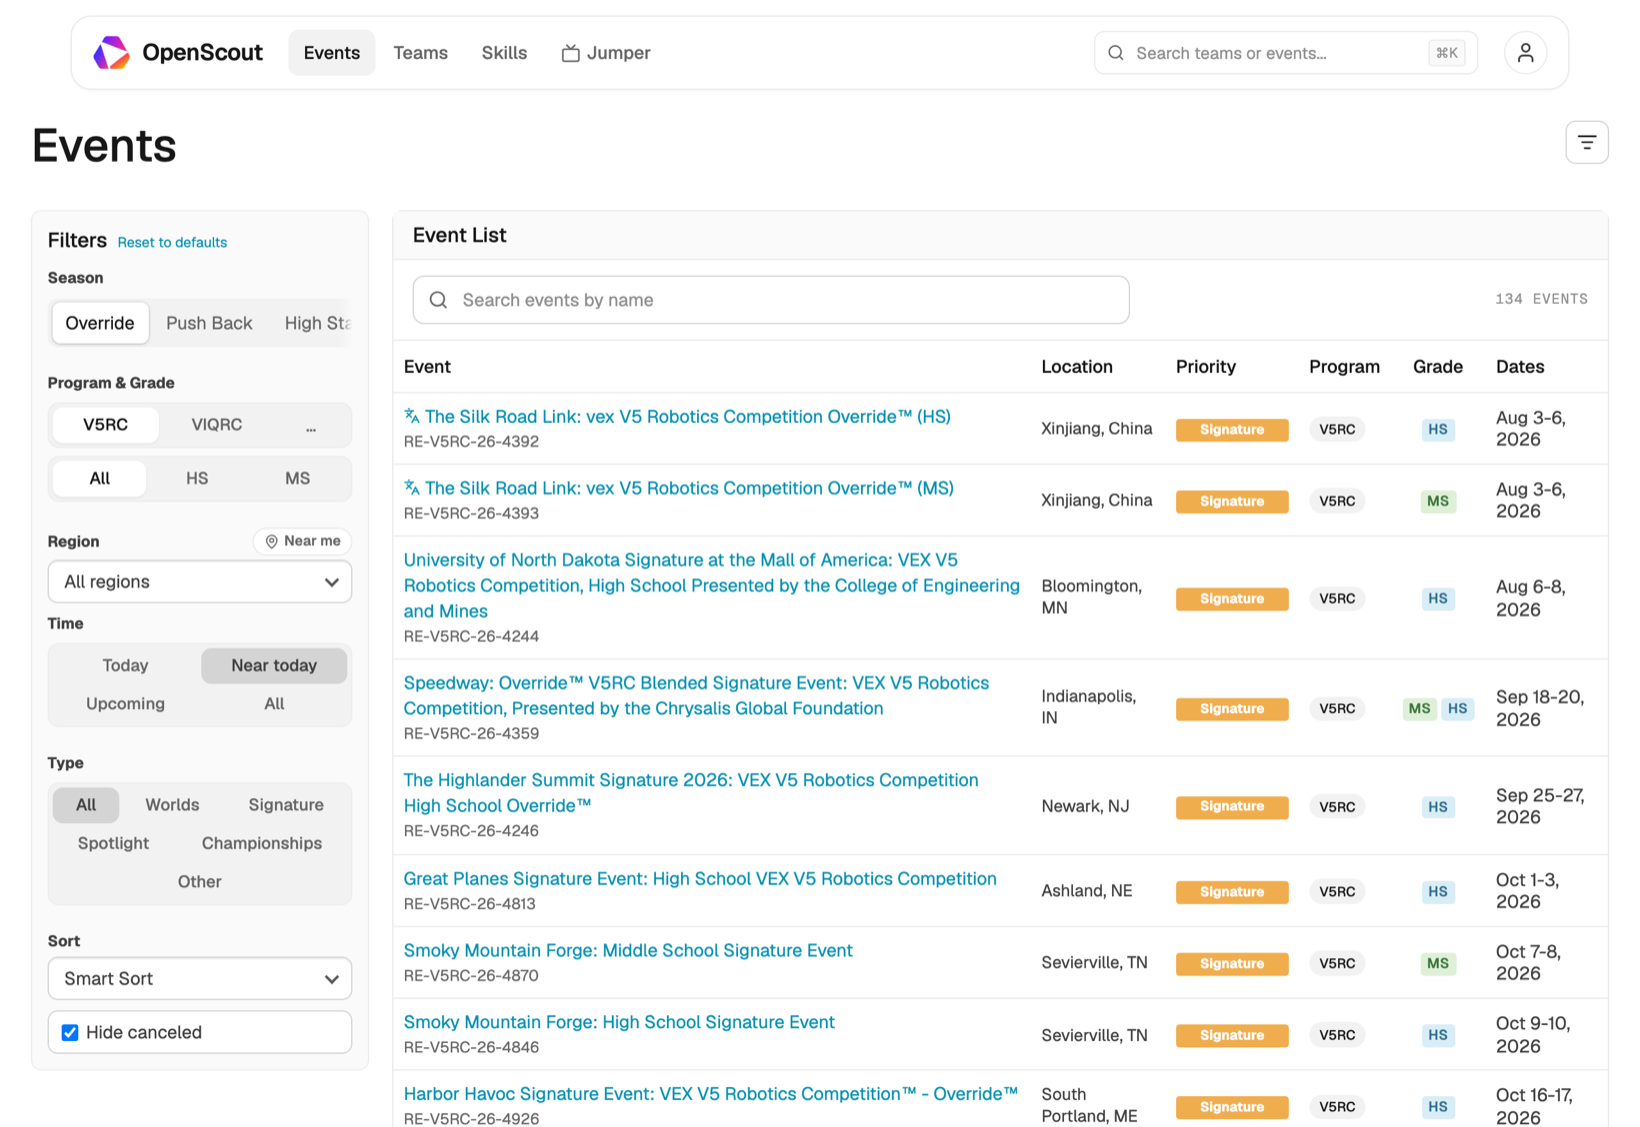
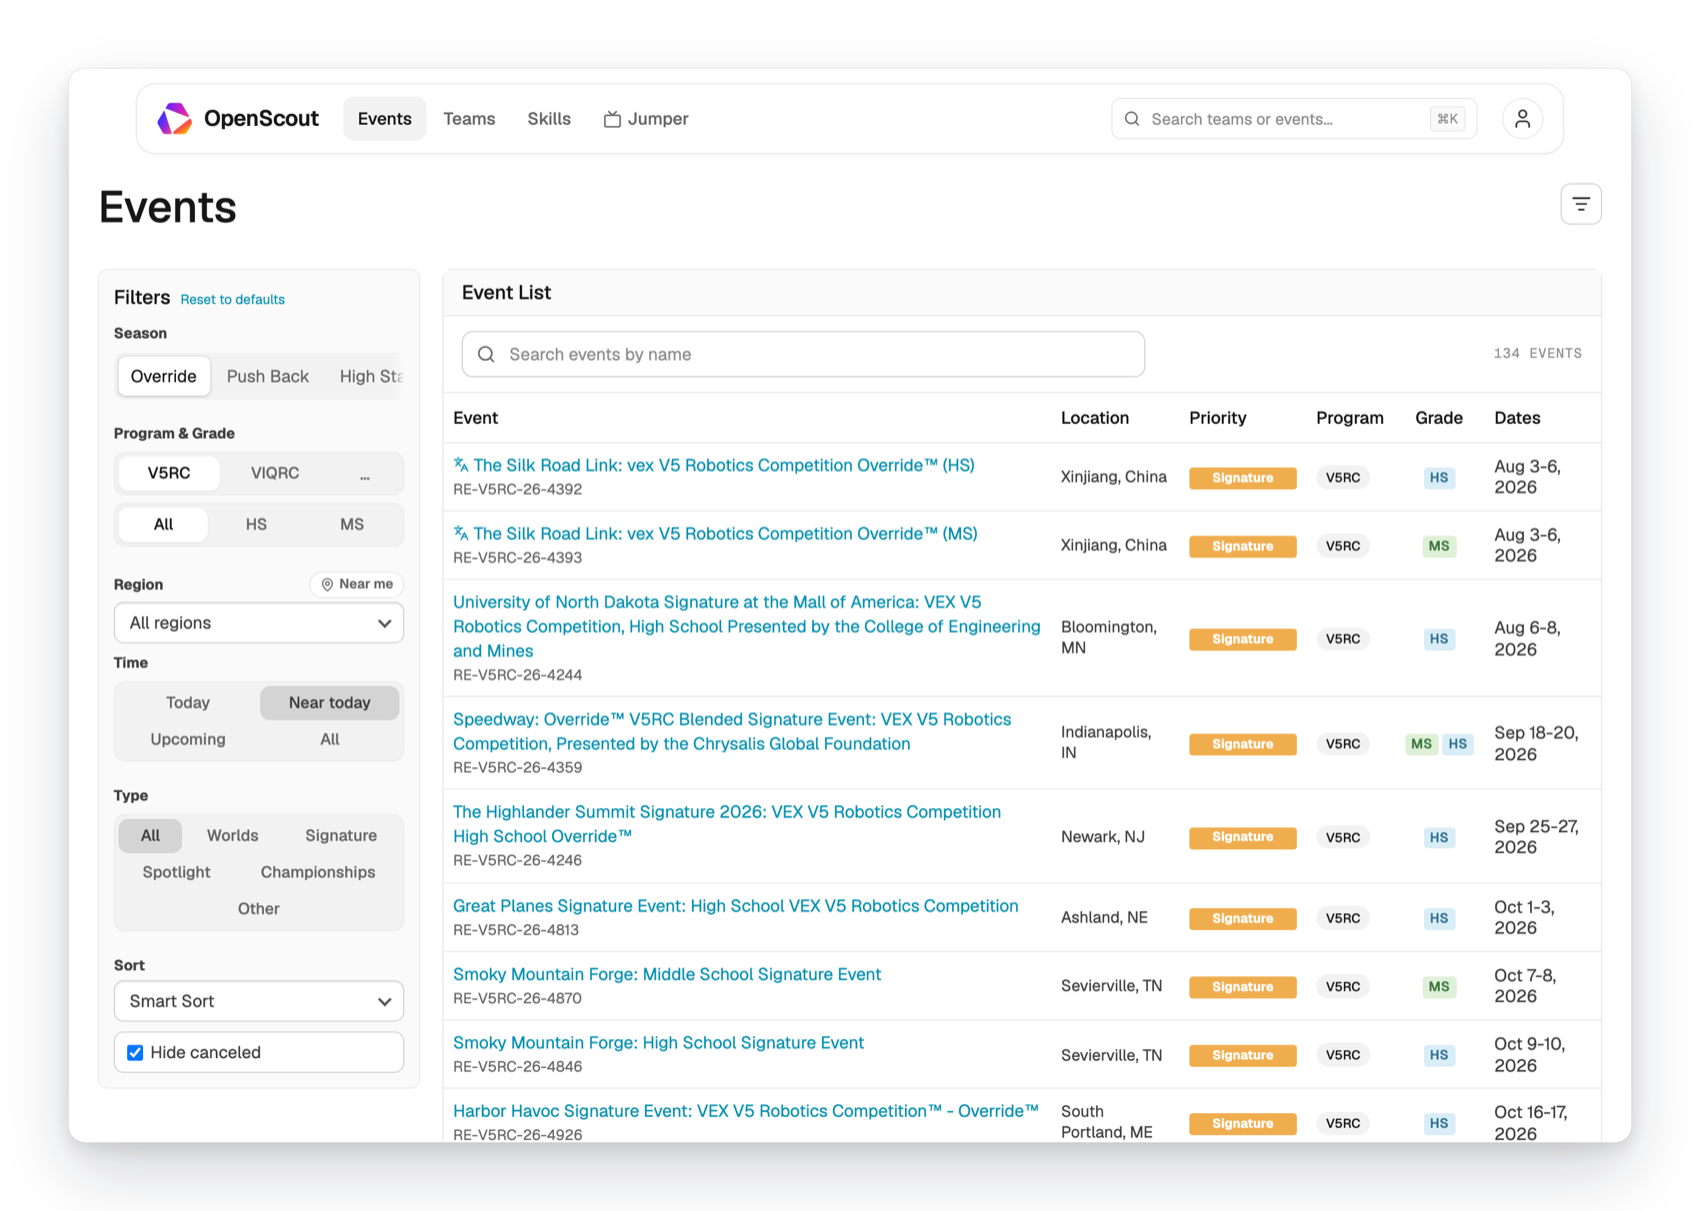
docs: simplify README copy and reframe screenshots
Plainer language throughout, shorter sentences, no em dashes. Drops the proxy
and auth internals from the overview. Refers to the data source as VEX Events.

Screenshots now sit in a rounded, shadowed frame on a transparent background,
and the team example is 10B for the Push Back season.

diff --git a/README.md b/README.md
@@ -6,15 +6,14 @@
 
 **Scouting and analytics for VEX Robotics events.**
 
-Browse every event and team across V5RC, VIQRC, VURC, and VAIRC — with the rankings,
-skills scores, match history, and awards your team actually scouts on, in one place.
+Every event and every team, in one place. Covers V5RC, VIQRC, VURC, and VAIRC.
 
 [![Live](https://img.shields.io/badge/live-openscout.ing-0a0a0a)](https://openscout.ing)
 [![License: AGPL v3](https://img.shields.io/badge/license-AGPL--3.0-blue)](LICENSE)
 [![Built with React](https://img.shields.io/badge/React-19-149eca)](https://react.dev)
 [![TypeScript](https://img.shields.io/badge/TypeScript-5.9-3178c6)](https://www.typescriptlang.org)
 
-<img src=".github/assets/events.png" alt="OpenScout event browser, showing filters for season, program, grade, region, and event tier alongside a sorted event list" width="820">
+<img src=".github/assets/events.png" alt="OpenScout event browser, showing filters for season, program, grade, region, and event type next to a sorted list of events" width="840">
 
 </div>
 
@@ -22,29 +21,31 @@ skills scores, match history, and awards your team actually scouts on, in one pl
 
 ## What it does
 
-OpenScout sits on top of the official RobotEvents data and adds the parts scouting
-actually needs: tiering, filtering, cross-team comparison, and a place to keep notes.
+VEX Events has the data. OpenScout makes it usable.
+
+You can filter events instead of scrolling past them. You can compare teams side by
+side. You can keep notes where you will actually find them again.
 
 | | |
 | --- | --- |
-| **Events** | Filter 1,600+ events by season, program, grade level, region, and tier — Worlds, Signature, Spotlight, Championship. Smart Sort surfaces what is near you and near today. |
-| **Teams** | Full team profiles: rankings, skills, match records, awards, and season-over-season history. A radar profile scores win rate, AWP, consistency, world skills, and experience at a glance. |
-| **Skills** | World skills leaderboards by program and grade, with driver and programming splits. |
-| **Jumper** | Jump straight to a specific match inside an event's recorded livestream. Matches YouTube and BoxCast streams against the match schedule and seeks to the right timestamp. |
-| **My Team** | Pin your team, track its events and recent matches, and keep per-match notes. |
-| **Shared teams** | Invite your club with role-based access, then build an alliance-selection picklist together that syncs live across everyone's devices. |
-| **Auto-translate** | Event names from non-English regions are translated on demand and cached server-side. |
+| **Events** | Filter by season, program, grade, region, and type. Worlds, Signature, and Championship events are labeled. Smart Sort puts what is near you and near today at the top. |
+| **Teams** | See rankings, skills scores, match records, and awards. Every past season is there too. A radar chart sums up a team at a glance. |
+| **Skills** | World skills leaderboards, split by driver and programming. |
+| **Jumper** | Watch any match without hunting through a six hour stream. Pick a match and it jumps to the right moment. |
+| **My Team** | Pin your team. Track its events and recent matches. Write a note on any match. |
+| **Shared teams** | Invite your club and build a picklist together. Changes show up on everyone's screen right away. |
+| **Translation** | Event names from other countries are translated for you. |
 
-Installable as a PWA, works offline for already-visited pages, and follows your system
-light/dark theme.
+You can install it like an app. Pages you have already opened still work offline. It
+follows your system light or dark setting.
 
 <div align="center">
-<img src=".github/assets/team.png" alt="OpenScout team profile for 2775V, showing world skills rank, win rate, a radar team profile chart, and win rate and skills score trends over time" width="820">
+<img src=".github/assets/team.png" alt="OpenScout team page for team 10B, showing world skills rank, win rate, a radar chart, and win rate and skills trends over the season" width="840">
 </div>
 
 ## Running it locally
 
-Requires Node 20 or newer.
+You need Node 20 or newer.
 
 ```bash
 git clone https://github.com/axcdeng/webscout.git
@@ -54,83 +55,73 @@ cp .env.example .env
 npm run dev
 ```
 
-The app comes up on <http://localhost:5175>. A single Express process serves both the
-API routes and the Vite dev server, so there is nothing else to start.
+Open <http://localhost:5175>. One process runs both the site and the API. There is
+nothing else to start.
 
-**You will need at least one API key.** OpenScout reads competition data from
-RobotEvents, and that requires a token — the app will render but stay empty without
-one. [.env.example](.env.example) documents every variable, what it is for, whether it
-is a real secret, and what happens when it is missing. The short version:
+You will need at least one API key. Competition data comes from VEX Events, and that
+needs a token. Without one the site loads but stays empty.
 
-| Variable | Needed for |
+[.env.example](.env.example) explains every setting. It says what each one does, which
+ones are real secrets, and what breaks when you skip them. The short version:
+
+| Setting | What it unlocks |
 | --- | --- |
-| `ROBOTEVENTS_API_KEY` / `RSE_API_KEY` | All event, team, ranking, and match data |
-| `VITE_SUPABASE_URL` / `VITE_SUPABASE_PUBLISHABLE_KEY` | Accounts, notes, shared teams, picklists |
-| `VITE_DEFAULT_YOUTUBE_API_KEY` | Jumper stream lookup |
-| `UPSTASH_REDIS_REST_URL` / `_TOKEN` | Proxy rate limiting (no-op when unset) |
+| `ROBOTEVENTS_API_KEY` and `RSE_API_KEY` | Events, teams, rankings, matches |
+| `VITE_SUPABASE_URL` and `VITE_SUPABASE_PUBLISHABLE_KEY` | Accounts, notes, shared teams, picklists |
+| `VITE_DEFAULT_YOUTUBE_API_KEY` | Jumper |
+| `UPSTASH_REDIS_REST_URL` and `_TOKEN` | Rate limiting, safe to skip locally |
 
-Accounts are optional for local development — browsing works without Supabase
-configured; only the account-backed features go dark.
+Accounts are optional. Browsing works without them. Only the features that save
+something need an account.
 
 ### Other commands
 
 ```bash
-npm run build    # tsc -b && vite build
-npm test         # vitest
-npm run lint     # eslint
+npm run build    # build for production
+npm test         # run the tests
+npm run lint     # check code style
 npm run preview  # serve the production build
 ```
 
 ## How it fits together
 
 ```
-src/          React 19 + Vite front end (Tailwind v4, Radix, Geist)
-  jumper/     Match-video sync: stream detection, seek math, BoxCast/YouTube
-server/       Express app — the upstream proxy, scrapers, translate, auth
-api/          The same handlers as Vercel serverless functions
-supabase/     SQL migrations for accounts, shared teams, notes, picklists
+src/          The site. React and Vite.
+  jumper/     Match video. Finds the stream and the right timestamp.
+server/       The API. Also talks to VEX Events.
+api/          The same API, as Vercel functions.
+supabase/     Database setup for accounts and shared teams.
 ```
 
-Upstream API keys never reach the browser. Every request to RobotEvents goes through
-the server-side proxy in [server/proxy.ts](server/proxy.ts), which attaches the key and
-guards the route with an origin allowlist plus per-user rate limiting — otherwise a
-public deployment is a free relay for anyone who finds the URL. Native clients that
-cannot send an `Origin` header authenticate with a Supabase bearer token instead
-([server/appAuth.ts](server/appAuth.ts)).
-
-The Supabase migrations in `supabase/migrations/` are applied by hand, in order, in the
-SQL editor — each one is idempotent and transactional. Access to shared-team data is
-enforced by row-level security rather than in application code.
+Database changes live in `supabase/migrations/`. Run them in order, by hand, in the
+Supabase SQL editor. Running one twice is safe.
 
 ## Contributing
 
-Issues and pull requests are welcome. Before opening a PR, please run:
+Issues and pull requests are welcome. Please run this first:
 
 ```bash
 npm run lint && npx tsc -b && npm test
 ```
 
-Two things worth knowing: `src/App.tsx` is large and is being decomposed gradually, and
-schema changes need a new numbered, idempotent migration rather than an edit to an
-existing one.
+Two things to know. `src/App.tsx` is very large and is being split up over time. A
+database change needs a new numbered file, not an edit to an old one.
 
 ## Security
 
-Found a vulnerability? Please report it privately to
-[contact@robostem.org](mailto:contact@robostem.org) rather than opening a public issue.
+Found a security problem? Please email
+[contact@robostem.org](mailto:contact@robostem.org) instead of opening an issue.
 
 ## License
 
-Licensed under the [GNU Affero General Public License v3.0](LICENSE).
+OpenScout is licensed under the [GNU Affero General Public License v3.0](LICENSE).
 
-You are free to use, modify, and self-host OpenScout. The AGPL's key condition is that
-if you run a modified version as a network service, you must make your source available
-to its users under the same license. Contact [contact@robostem.org](mailto:contact@robostem.org)
-if you need different terms.
+You can use it, change it, and host it yourself. If you run a changed version as a
+public service, you have to share your source code under the same license. Email
+[contact@robostem.org](mailto:contact@robostem.org) if you need different terms.
 
-The bundled Geist and Geist Mono fonts are © Vercel, licensed separately under the
+The Geist fonts are made by Vercel and have their own license, the
 [SIL Open Font License 1.1](public/fonts/OFL.txt).
 
-OpenScout is an independent project. It is not affiliated with, endorsed by, or
-sponsored by the REC Foundation or VEX Robotics. Competition data is sourced from
-RobotEvents.
+OpenScout is an independent project. It is not affiliated with or endorsed by VEX
+Robotics. Competition data comes from VEX Events.
